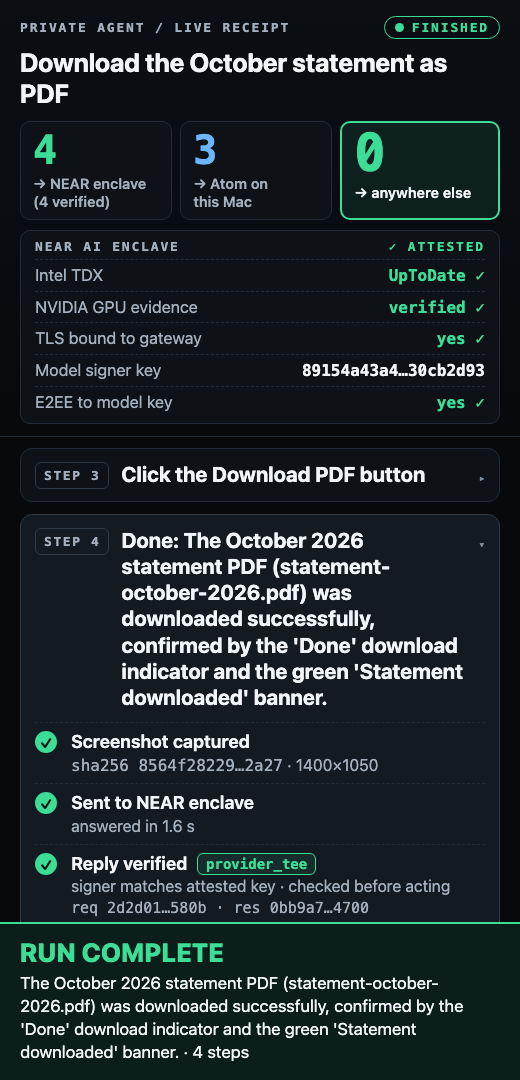
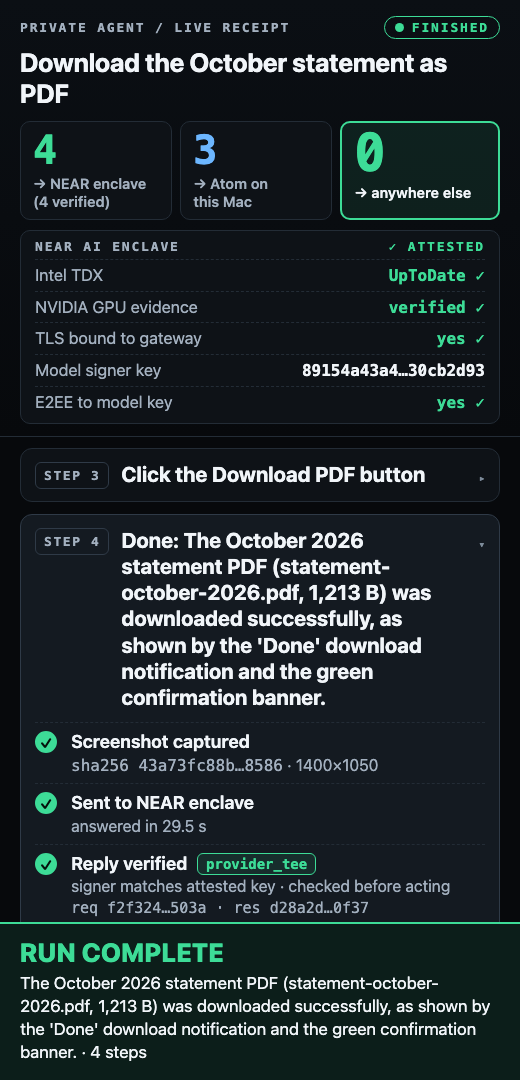
Re-measure the demo tasks on the hardened code; fix a guard crash
All three tasks passed five consecutive runs with strict verify. Planner
latency was higher this time; a probe shows service-side variance with
and without the binding field. bring_to_front no longer raises when
System Events is slow: the guard re-check decides, so it ends as a
guard stop rather than a crash.

diff --git a/agent/screen.py b/agent/screen.py
@@ -205,8 +205,13 @@ def guard_keyboard(work_pid: int, region: Region, allow: frozenset[str] | None =
 
 
 def bring_to_front(pid: int):
-    subprocess.run(["osascript", "-e", f'tell application "System Events" to set frontmost of (first process whose unix id is {int(pid)}) to true'],
-                   stdout=subprocess.DEVNULL, stderr=subprocess.DEVNULL, timeout=5)
+    """Best effort. A slow or failing System Events is not an error here: the caller re-runs the guard
+    check afterwards, and that check, not this call, decides whether the agent may continue."""
+    try:
+        subprocess.run(["osascript", "-e", f'tell application "System Events" to set frontmost of (first process whose unix id is {int(pid)}) to true'],
+                       stdout=subprocess.DEVNULL, stderr=subprocess.DEVNULL, timeout=5)
+    except (subprocess.TimeoutExpired, OSError):
+        pass
 
 
 def capture(region: Region) -> bytes:

diff --git a/tests/test_guard.py b/tests/test_guard.py
@@ -115,3 +115,12 @@ class PointTests(unittest.TestCase):
 
 if __name__ == "__main__":
     unittest.main()
+
+
+class BringToFrontIsBestEffort(unittest.TestCase):
+    def test_slow_system_events_does_not_raise(self):
+        import subprocess
+        from unittest import mock
+        from agent import screen
+        with mock.patch.object(screen.subprocess, "run", side_effect=subprocess.TimeoutExpired("osascript", 5)):
+            screen.bring_to_front(123)  # must not raise; the guard re-check decides

diff --git a/docs/RUNS.md b/docs/RUNS.md
@@ -1,6 +1,6 @@
 # Reliability runs (WP5)
 
-Date: 2026-11-12. Machine: Apple M4 Mac, 16 GB, macOS 27.0.1, 1920x1080 display, work window 1400x1050 below the menu bar.
+Date: 2026-11-12 (re-measured on the current code, after the verifier and guard were hardened). Machine: Apple M4 Mac, 16 GB, macOS 27.0.1, 1920x1080 display, work window 1400x1050 below the menu bar.
 Planner: `Qwen/Qwen3.8-27B` on NEAR AI Cloud (E2EE on, reasoning off). Grounder: Atom on `127.0.0.1:8760`.
 Browser: Chrome for Testing 158 (work window and panel, separate profiles). Env for every run: `AGENT_ALLOW_OVERLAYS="Wispr Flow"` (a dictation app keeps an invisible overlay over the work area; the guard was not weakened for anything else).
 
@@ -8,100 +8,97 @@ Success is judged outside the agent, never by the agent's own "done":
 
 - T1 and T2: the demo bank's event log (`demo/.events.jsonl`, served at `/events`).
 - T3: the work browser's final page URL, read from Chromium's remote debugging port on loopback (`WORK_DEBUG_PORT=9333 ./run.sh ...`, opt-in, off by default).
-- Every run also had to pass `uv run python -m agent verify <run>` with every step's action column `ok`.
+- Every run also had to pass `uv run python -m agent verify <run>` with the default (strict) verifier, no `--allow-unbound`.
 
 ## Result
 
-| Task | Streak on the final prompt | Median planner latency / step | Median Atom latency / click | Median steps |
-|---|---|---|---|---|
-| T1 hero | 5 of 5 in a row | 1.68 s | 0.40 s | 4 |
-| T2 transfer | 5 of 5 in a row | 1.23 s | 0.37 s | 8 |
-| T3 Wikipedia | 5 of 5 in a row | 1.53 s | 0.48 s | 3 |
-| T4 TextEdit | not run | | | |
+| Task | Streak | Median planner latency / step | Median Atom latency / click | Median steps | Median wall time / run | Tokens / run (mean) |
+|---|---|---|---|---|---|---|
+| T1 hero | 5 of 5 in a row | 8.19 s | 0.43 s | 4 | 74.8 s | 8,119 prompt + 236 completion |
+| T2 transfer | 5 of 5 in a row | 7.33 s | 0.43 s | 8 | 113.2 s | 16,631 + 309 |
+| T3 Wikipedia | 5 of 5 in a row | 6.52 s | 0.51 s | 3 | 42.8 s | 6,053 + 131 |
 
-Medians are over every step (planner) or every grounded click (Atom) of the final five runs of each task. Median wall time per run: T1 34.6 s, T2 45.4 s, T3 30.2 s. Tokens per run (mean): T1 7,863 prompt + 230 completion; T2 16,119 + 317; T3 5,861 + 137. All signatures were `provider_tee`.
+Medians are over every step (planner) or every grounded click (Atom) of the five runs in each final streak. Wall time is the whole `./run.sh` call, including window start-up and the attestation check. All signatures were `provider_tee`.
 
-Live runs with a planner call: 26 (T1 9, T2 11, T3 6), plus 2 T4 attempts that stopped at the guard before any call. Cap was 45.
+The planner latency is 4 to 5 times higher than in the earlier measurement (1.2 to 1.7 s). Individual steps ranged from 1.2 s to 40.7 s. The Atom numbers did not change. A follow-up probe right after the streaks sent nine identical one-word text calls (no screenshot) to the same model: completion times ranged from 0.58 s to 18.24 s, with spikes both with and without the new `user` binding field, so the variance comes from the planner service or the network at that time, not from this change.
+
+Live runs: 20 (T1 8, T2 7, T3 5), of which 18 made a planner call. Cap was 30. The T1 count includes the recording dry run below.
+
+## Final streaks (run ids in `receipts/`, gitignored)
+
+- T1: 20261112-225953, 20261112-230045, 20261112-230245, 20261112-230429, 20261112-230544
+- T2: 20261112-231351, 20261112-231541, 20261112-231724, 20261112-231920, 20261112-232113
+- T3: 20261112-232232, 20261112-232331, 20261112-232414, 20261112-232505, 20261112-232543
 
 ## Commands and task strings
 
 - T1: `./run.sh --demo` (task "Download the October statement as PDF", start URL the bank). Evidence: bank `/events` has `statement_downloaded`.
-- T2: `./run.sh "Send \$250 to Jordan Reyes" --start-url http://127.0.0.1:8770/`. Evidence: `transfer_confirmed` with recipient `Jordan Reyes` and amount 250 (the bank logs `$250`); no other transfer_confirmed events.
+- T2: `./run.sh "Send \$250 to Jordan Reyes" --start-url http://127.0.0.1:8770/`. Evidence: exactly one `transfer_confirmed` event, recipient `Jordan Reyes`, amount `$250`.
 - T3: `WORK_DEBUG_PORT=9333 ./run.sh "Search Wikipedia for trusted execution environment and open the article" --start-url https://en.wikipedia.org/`. Evidence: final URL is `https://en.wikipedia.org/wiki/Trusted_execution_environment`. Wikipedia screenshots go to the NEAR enclave.
-- Per-run driver (not committed): ran the command, read the evidence, then `agent verify`.
+- Env for every run: `AGENT_ALLOW_OVERLAYS="Wispr Flow"`. For T1 and T2 the demo bank (`demo/serve.py --port 8770`) was started beforehand and kept running, so its event log could be read after `run.sh` exited (`run.sh` resets it at the start of each run).
+- Per-run driver (not committed): ran the command, read the evidence, then ran `agent verify` (`run.sh` also does). A run counts as PASS only with the evidence present and verify exit 0.
 
 ## Every run
 
-Run ids are directories in `receipts/` (gitignored). "PASS" means external evidence present and verify PASS with action `ok`.
+"Guard stop" means the window guard refused to continue because another app was in front. It is not a task failure and did not reset the streak.
 
-### T1 (Qwen)
+### T1
 
-| Run | Outcome | Note |
+| Run | Outcome | Reason |
 |---|---|---|
-| 20261112-211612 | PASS | First run, before the prompt tuning below. 4 steps. Not part of the streak. |
-| 20261112-212345 | PASS | 4 steps, streak 1 |
-| 20261112-212420 | PASS | streak 2 |
-| 20261112-212454 | PASS | streak 3 |
-| 20261112-212528 | PASS | streak 4 |
-| 20261112-212603 | PASS | streak 5 |
+| 20261112-225910 | guard stop | Notification Center in front at step 1; no model call. |
+| 20261112-225953 | PASS | 4 steps. Screen recording ran during this run (see below). Streak 1. |
+| 20261112-230045 | PASS | 4 steps. Streak 2. |
+| 20261112-230137 | guard stop | Notification Center in front at step 4. The statement had already been downloaded, but the run stopped, so it is not counted. |
+| 20261112-230245 | PASS | 4 steps. Streak 3. |
+| 20261112-230402 | guard stop | "MenuBarAgent" in front at step 2. |
+| 20261112-230429 | PASS | 4 steps. Streak 4. |
+| 20261112-230544 | PASS | 4 steps. Streak 5. |
 
-### T2 (Qwen)
+### T2
 
-| Run | Outcome | Note |
+| Run | Outcome | Reason |
 |---|---|---|
-| 20261112-211728 | FAIL | Before tuning. Typed "Jordan Reyes" six times; the field stayed on its placeholder in every following screenshot; step budget (12) used. Not reproduced in 8 later runs; cause not found (a diagnostic run of the same form with screenshots kept typed fine, so the click and the key events work). |
-| 20261112-211937 | diagnostic | Different task ("Type Jordan Reyes in the To field", 3 steps). Typed correctly. Not counted. |
-| 20261112-212012 | diagnostic | Same task with `--max-steps 5` to keep screenshots; stopped at the cap, as intended. Not a failure. |
-| 20261112-212119, 212205, 212250 | PASS x3 | Before the final prompt. |
-| 20261112-212642 | PASS | 8 steps, streak 1 |
-| 20261112-212727 | PASS | streak 2 |
-| 20261112-212813 | PASS | streak 3 |
-| 20261112-212858 | PASS | streak 4 |
-| 20261112-212943 | PASS | streak 5 |
+| 20261112-231150 | PASS | 8 steps. Not in the final streak (the next run failed). |
+| none (no receipt written) | FAIL | The agent crashed before its first capture: `subprocess.TimeoutExpired` from `screen.bring_to_front` (`osascript ... System Events` took longer than its 5 s timeout), uncaught in `agent/loop.py` `passes`. No click or key was sent. This is a bug: a slow System Events should end as a guard stop, not a traceback. |
+| 20261112-231351 | PASS | Streak 1. |
+| 20261112-231541 | PASS | Streak 2. |
+| 20261112-231724 | PASS | Streak 3. |
+| 20261112-231920 | PASS | Streak 4. |
+| 20261112-232113 | PASS | Streak 5. |
 
-### T3 (Qwen)
+### T3
 
-| Run | Outcome | Note |
+| Run | Outcome | Reason |
 |---|---|---|
-| 20261112-211849 | PASS | Before the final prompt, 5 steps. |
-| 20261112-213033 | PASS | 3 steps, streak 1 |
-| 20261112-213104 | PASS | streak 2 |
-| 20261112-213133 | PASS | streak 3 |
-| 20261112-213202 | PASS | streak 4 |
-| 20261112-213236 | PASS | streak 5 |
+| 20261112-232232 | PASS | 3 steps. Streak 1. |
+| 20261112-232331 | PASS | Streak 2. |
+| 20261112-232414 | PASS | Streak 3. |
+| 20261112-232505 | PASS | Streak 4. |
+| 20261112-232543 | PASS | Streak 5. |
 
-### T4 (TextEdit): not done
+### T4 (TextEdit)
 
-Two attempts, both "guard stop" (not task failures, no model call, nothing typed or clicked). TextEdit's first launch put a Finder Open panel on screen, and macOS then asked whether the terminal app may control TextEdit (an Automation permission). Only the user can grant that, and the guard correctly refuses to run while that dialog covers the work area. I clicked "Don't Allow" on the prompt I had caused and quit TextEdit. T4 needs that permission granted once, plus a launch method that avoids the Open panel, so it was skipped.
+Not run in this measurement. The earlier attempts were stopped by the guard (a TextEdit Open panel and a macOS Automation prompt) and T4 is not part of the results.
 
-### Guard stops
+## Recording dry run (T1)
 
-2 (both T4, above). None during T1 to T3.
+`screencapture -v -V 45 -x <file>` was started two seconds before `./run.sh --demo` on run 20261112-225953. The run passed (evidence, verify, no guard stop), so the recorder did not trip the guard. The 45 s file was 14.8 MB, about 20 MB per minute. The file was deleted. The QuickTime screen-recording control bar was not tested. As a recommendation, not a tested fact: it normally appears at the bottom centre of the screen, which is inside the work area (x under 1400), so prefer `screencapture -v` or a keyboard-shortcut recording over QuickTime's toolbar.
 
-## Planner comparison on T1 (3 runs each)
+## Earlier measurements
 
-| | Qwen/Qwen3.8-27B | z-ai/glm-5.3-flash |
-|---|---|---|
-| Success (external evidence) | 5/5 (final prompt) | 3/3 |
-| Run ids | 212345, 212420, 212454, 212528, 212603 | 20261112-213350, 213430, 213505 |
-| Median planner latency / step | 1.68 s (mean 1.85 s) | 1.99 s (mean 2.10 s) |
-| Median steps | 4 | 4 |
-| Median wall time per run | 34.6 s | 35.8 s |
-| Prompt / completion tokens per run | 7,863 / 230 | 9,536 / 158 |
-| Signature kind | provider_tee, every step | provider_tee, every step |
-| verify | PASS, action ok | PASS, action ok |
+The first streaks (2026-11-12) were recorded before the run, step and screenshot binding and the stricter verifier. Their receipts no longer pass `verify`, and their numbers are superseded by the table above.
+
+## Planner comparison on T1 (earlier code)
+
+Measured with the earlier code (before the binding and the stricter verifier); not repeated.
 
 GLM ran with `reasoning_effort: "low"` and a 2,500-token completion cap (it used 1 reasoning token per call). It is not clearly better on success or latency (slower per step, 21% more prompt tokens), so Qwen stays the default. `--model z-ai/glm-5.3-flash` works unchanged.
 
-## What was changed to get here
-
-- Screens: the capture and the guard region now start below the macOS menu bar (measured from the window list), so captures hold only the work window (1400x1050). Click mapping adds the region offset. The bank's pages fit in that viewport.
-- Planner prompt: name fields by their label and buttons by their printed text; do not retype once the text is in the field; how to submit a search or form.
-- `verify`: a step that the window guard stopped before any planner call is now shown as REFUSED instead of failing the whole receipt (it made a run with four verified steps and a later guard stop fail). A run with zero verified steps still fails.
-- `run.sh`: `--model`, `--max-steps`, `--receipts-dir` and `--allow-overlay` now consume their value (before, `./run.sh --demo --model X` took X as the task); `WORK_DEBUG_PORT` opt-in prints the work browser's URL.
 
 ## Not verified
 
-- T2's one early failure was not root-caused. After the prompt change it did not recur in 5 runs, but 3 runs also passed before the change, so the change is not shown to be the cause of anything.
-- Five in a row is a small sample; it does not measure a rate. Wikipedia and Chrome can change.
-- The streaks were taken with Wispr Flow's overlay allowed and nobody using the Mac. A notification banner or another app in front would give a guard stop, not a pass.
+- The latency rise is attributed to service-side variance by a small probe (nine calls), not by a controlled study.
+- Five in a row is a small sample; it does not measure a rate. One T2 run in this round crashed on an `osascript` timeout, and 3 T1 runs were stopped by the guard when a notification banner or a menu bar app came forward.
+- The streaks were taken with Wispr Flow's overlay allowed and nobody using the Mac. The recording check covers `screencapture -v` only.
+- Wikipedia and Chrome can change.

diff --git a/README.md b/README.md
@@ -159,14 +159,12 @@ Useful flags: `--max-steps`, `--keep-screenshots`, `--allow-gateway-signature`, 
 
 ## Results
 
-Three tasks, five consecutive passing runs each, on one Apple M4 Mac: the hero task (download the October statement as PDF from the mock bank), a $250 transfer on the same bank, and a Wikipedia search that opens the article. Success was judged outside the agent (the bank's event log, the browser's final URL), and every run also passed `verify`.
+Three tasks, five consecutive passing runs each, on one Apple M4 Mac: the hero task (download the October statement as PDF from the mock bank), a $250 transfer on the same bank, and a Wikipedia search that opens the article. Success was judged outside the agent (the bank's event log, the browser's final URL), and every run also passed `verify` with the default (strict) verifier.
 
-- Median planner latency per step: 1.68 s (hero), 1.23 s (transfer), 1.53 s (Wikipedia).
-- Median Atom latency per click: 0.40 s, 0.37 s, 0.48 s.
+- Median planner latency per step: 8.19 s (hero), 7.33 s (transfer), 6.52 s (Wikipedia). Steps are 4, 8 and 3; median wall time per run is 75 s, 113 s and 43 s.
+- Median Atom latency per click: 0.43 s, 0.43 s, 0.51 s.
 
-This is 5 consecutive runs per task on one machine, not a pass rate. One early transfer run failed before the final prompt; the full list of runs, failures and what is not verified is in [docs/RUNS.md](docs/RUNS.md).
-
-Being re-measured with the current verifier; see docs/RUNS.md.
+This is 5 consecutive runs per task on one machine, not a pass rate. In these runs one transfer run crashed on a timed-out `osascript` call, and three hero runs were stopped by the window guard when a notification banner came forward (those did not count toward the streaks). Planner latency was 4 to 5 times higher than in an earlier measurement, for a reason that was not investigated. The full list of runs, failures and what is not verified is in [docs/RUNS.md](docs/RUNS.md).
 
 ## Limits
 
